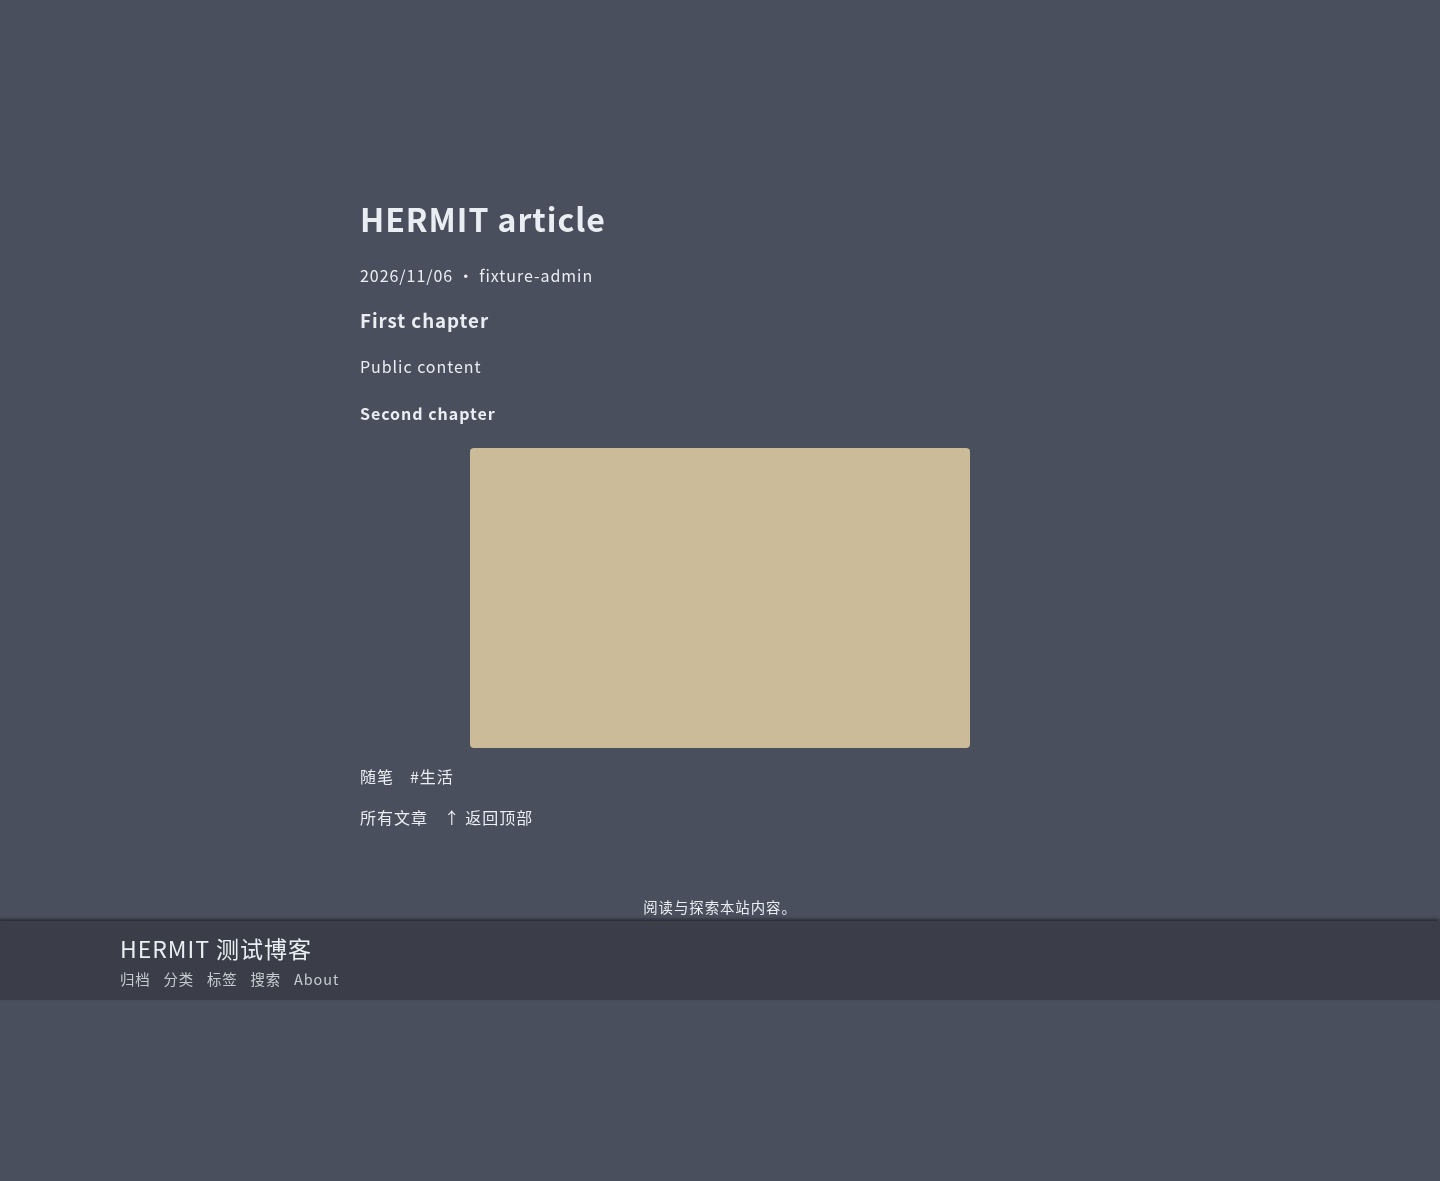
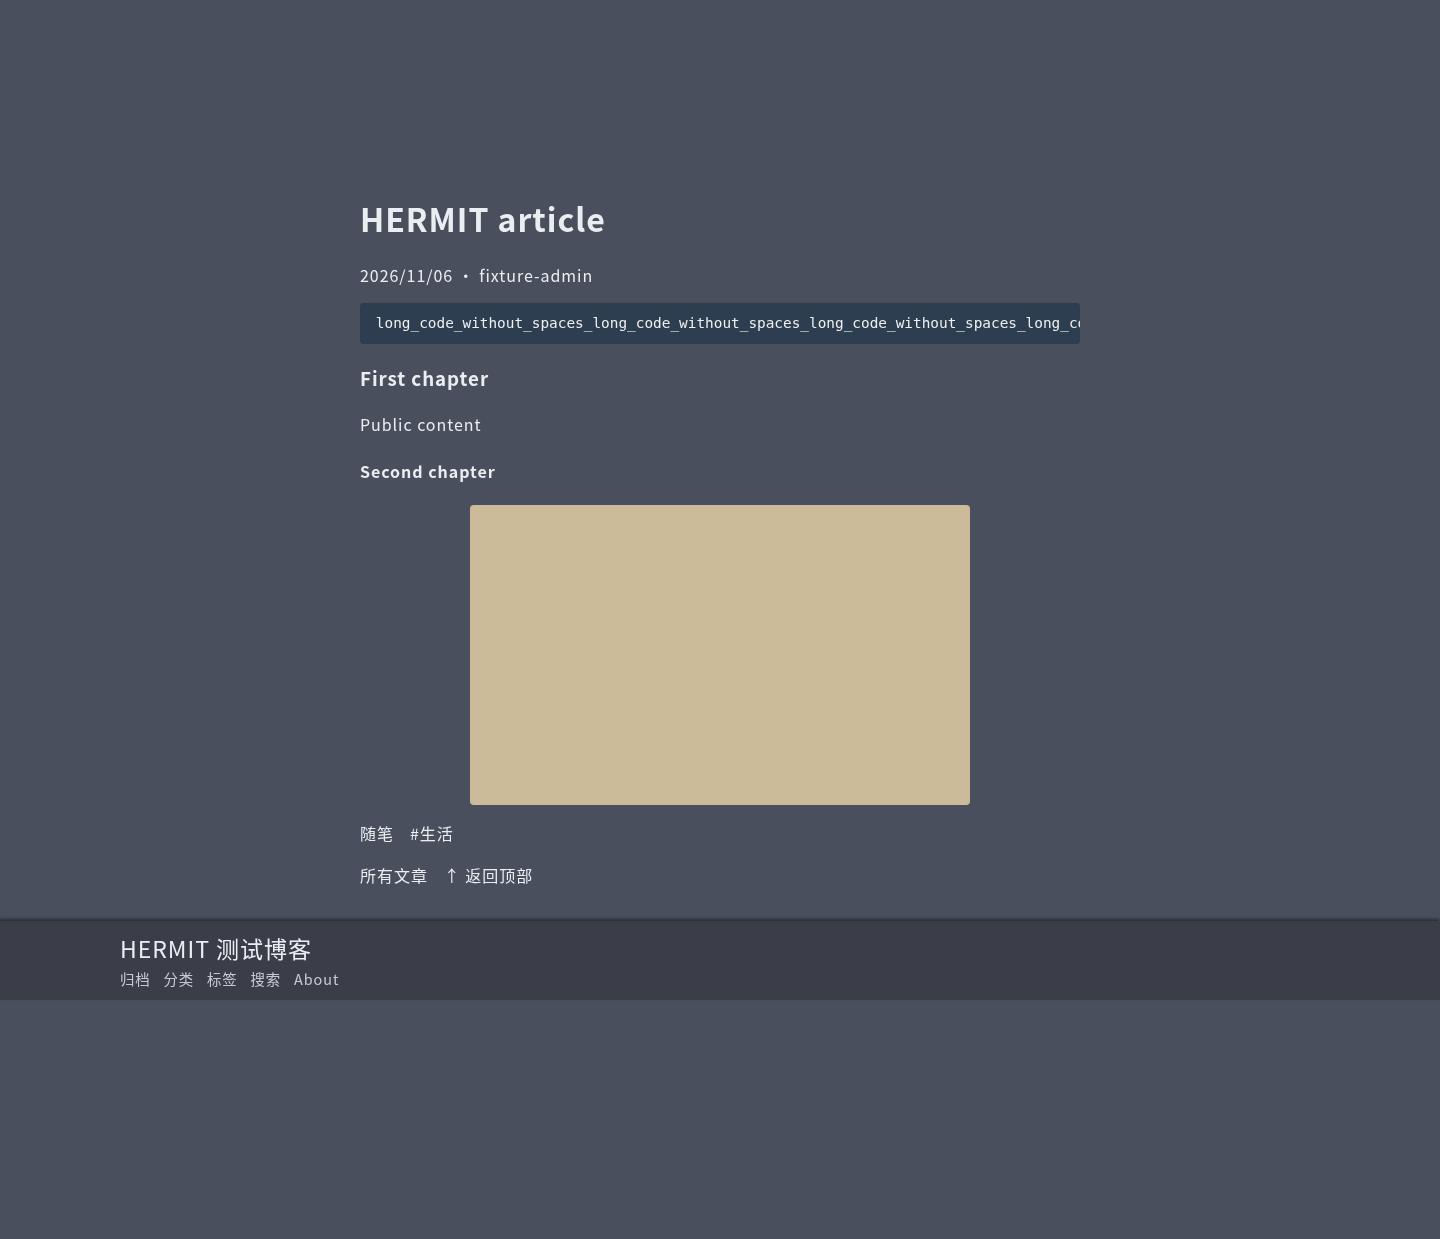
fix: render native attachment media and contain long code

diff --git a/test/hermit.test.js b/test/hermit.test.js
@@ -4,3 +4,5 @@ const {render,pages}=require('./port-fixture');
 for(const page of pages)test('Hermit '+page+' renders populated and empty Widgets',async()=>{for(const empty of [false,true]){const html=await render('hermit',page,{empty});assert.match(html,/Hermit/);assert(!html.includes('undefined'));}});
 test('Hermit escapes titles, rejects active cover URLs, preserves protected body',async()=>{const html=await render('hermit','index',{hostile:true,config:{profileName:'<script>alert(1)</script>',backgroundImage:'javascript:alert(1)'}});assert(!html.includes('<img src=x onerror'));assert.match(html,/&lt;img/);assert(!html.includes('src="javascript:'));assert.match(await render('hermit','post',{protected:true}),/protectPassword/);});
 test('Hermit delegates comments and keeps search filters in pagination',async()=>{assert(!(await render('hermit','post',{comments:false})).includes('id="comments"'));const html=await render('hermit','search',{request:'/search.html?keyword=a%26b'});assert.match(html,/keyword=a%26b&amp;page=2/);});
+
+test('hermit renders attachment media and rejects active file URLs',async()=>{const {context}=require('./port-fixture');const {Eta}=require('eta');const path=require('node:path');for(const [mime,element] of [['image/png','img'],['audio/mpeg','audio'],['video/mp4','video'],['application/pdf',null]]){const ctx=context('hermit','attachment');const archive=await ctx.widget('Widget_Archive');archive.stack[0].options={attachment:{mime,url:'/uploads/file',name:'Download file'}};const html=await new Eta({views:path.join(__dirname,'../packages/hermit'),varName:'firekylin'}).renderAsync('attachment',ctx);assert.match(html,/href="\/uploads\/file" download/);if(element)assert(html.includes('<'+element+' '));}const ctx=context('hermit','attachment');(await ctx.widget('Widget_Archive')).stack[0].options={attachment:{mime:'image/png',url:'javascript:alert(1)'}};const html=await new Eta({views:path.join(__dirname,'../packages/hermit'),varName:'firekylin'}).renderAsync('attachment',ctx);assert(!html.includes('javascript:'));});

diff --git a/packages/hermit/res/css/theme.css b/packages/hermit/res/css/theme.css
@@ -1109,3 +1109,5 @@ a.footnote-ref:hover {
 }
 /* Native integration */
 body{margin:0;padding-bottom:9rem;overflow-wrap:anywhere}*{box-sizing:border-box}img{height:auto}iframe,video{max-width:100%}.hdr-wrapper{flex-wrap:wrap;gap:.5rem}.hdr-left{width:100%}.hdr-wrapper .site-nav{display:flex;flex-wrap:wrap;gap:.3rem .8rem;font-size:.9rem}.hdr-wrapper .site-nav a{margin:0}.prose table{display:block;overflow:auto}.post-actions,.tags{display:flex;gap:1rem;flex-wrap:wrap;margin:1rem 0}.pagination{display:flex;justify-content:space-between;margin:2rem 0}.skip{position:absolute;top:-100px;z-index:5}.skip:focus{top:0}input,button{font:inherit;max-width:100%;box-sizing:border-box}#feed{scroll-margin:2rem}.post-year{min-width:4ch}.post-title{min-width:0}.site-main{padding-top:3rem}:focus-visible{outline:2px solid #018574;outline-offset:3px}@media(max-width:600px){.posts-group{display:block}.post-year{margin-bottom:.5rem}.post-item a{gap:.5rem}}
+/* Native code and attachment containment. */
+.prose pre{max-width:100%;overflow-x:auto}.attachment-media img,.attachment-media audio,.attachment-media video{max-width:100%}
